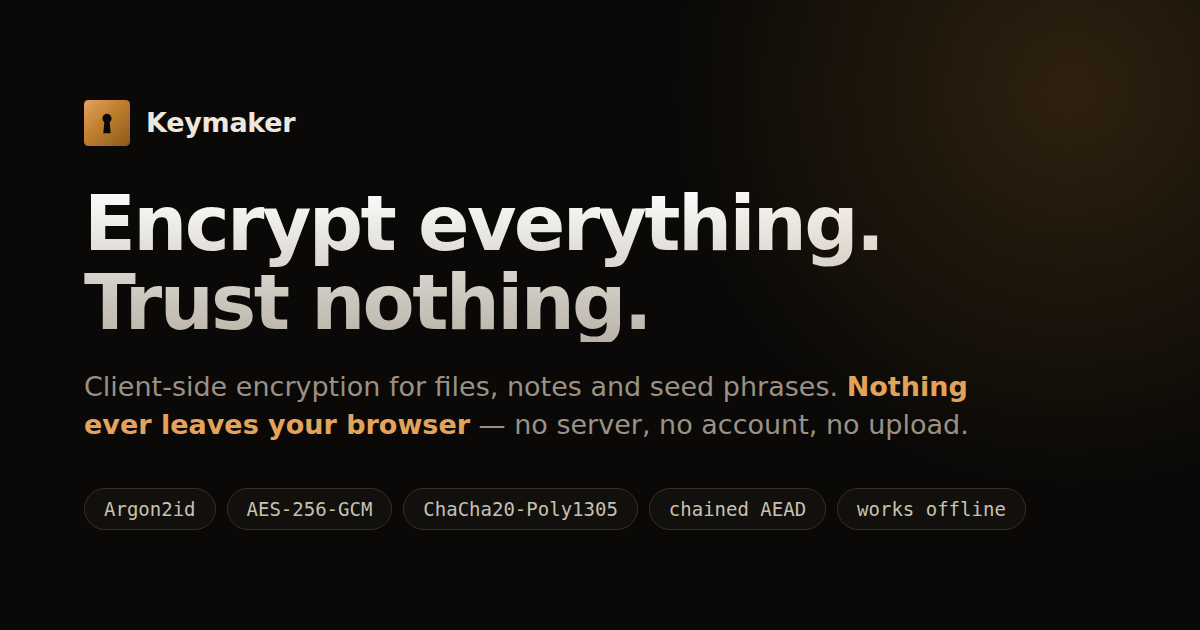
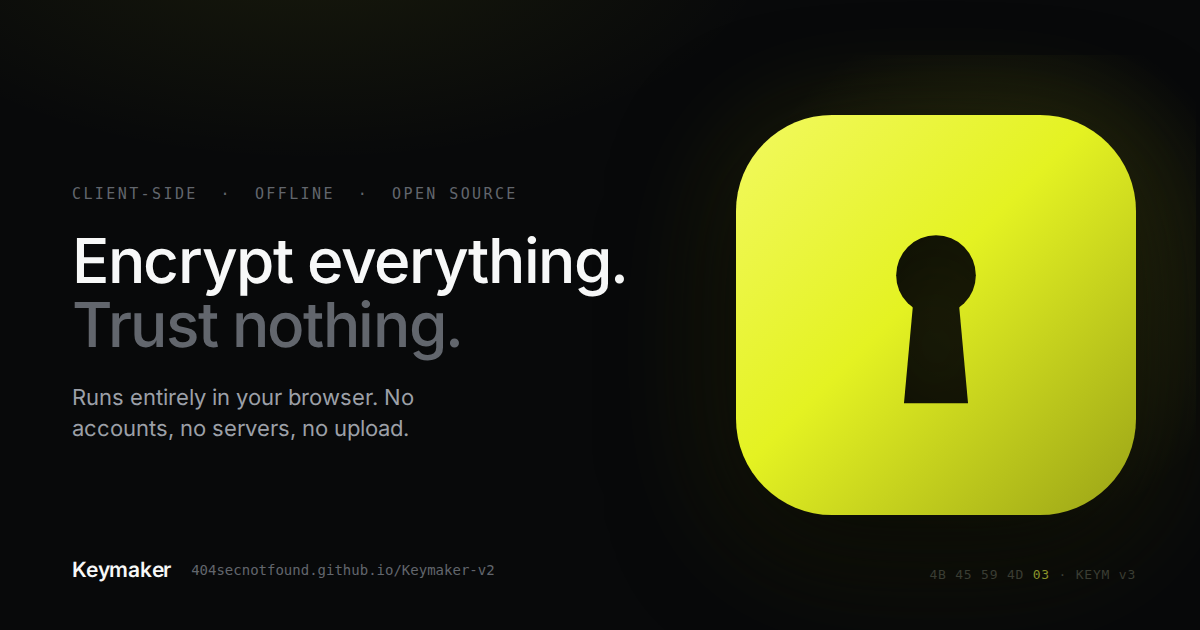
Move the visual identity to a hairline near-black system
The amber-glass look becomes a near-black instrument panel: #08090a
ground, hairline borders where blur and drop shadows used to carry the
elevation, a 12px/6px radius vocabulary, and one acid-lime accent that is
reserved for the primary action of a view. Everything routes through the
existing HSL token layer in globals.css, which is why the diff to the
shadcn primitives is two hover states: outline and ghost buttons hovered
in `bg-accent`, which was a quiet neutral wash under the old palette and
a full lime flash under this one — the accent is a signal, not a hover.

Type is Inter Variable, self-hosted through a lockfile-pinned package
rather than fetched from a font host at build time: this build has to be
reproducible by a stranger with no network guarantees, and its runtime
CSP has font-src 'self'. The two Latin faces join the service worker
precache for the same reason the chunks are in it — without them the
first offline visit renders in the fallback stack, and an app that
promises to keep working offline should not look different when it does.

The dice tool's below-the-floor verdict moves from `text-destructive` to
the red-400 idiom its sibling floor verdict already uses: the new
destructive tone is a surface colour, and on its own /10 wash it sits at
4.3:1 — under the 4.5 floor the axe suite holds that page to.

Logo, PWA icons, theme colour and the social card follow the palette.
The card is not a binary that arrived from nowhere: its source is
[…]

diff --git a/src/app/globals.css b/src/app/globals.css
@@ -1,4 +1,5 @@
 @import 'tailwindcss';
+@import '@fontsource-variable/inter/index.css';
 
 @plugin 'tailwindcss-animate';
 
@@ -6,8 +7,8 @@
 
 @theme {
   --font-body:
-    system-ui, -apple-system, BlinkMacSystemFont, Segoe UI, Roboto,
-    Helvetica Neue, Arial, sans-serif;
+    'Inter Variable', system-ui, -apple-system, BlinkMacSystemFont, Segoe UI,
+    Roboto, Helvetica Neue, Arial, sans-serif;
 
   --color-background: hsl(var(--background));
   --color-foreground: hsl(var(--foreground));
@@ -35,8 +36,8 @@
   --color-ring: hsl(var(--ring));
 
   --radius-lg: var(--radius);
-  --radius-md: calc(var(--radius) - 2px);
-  --radius-sm: calc(var(--radius) - 4px);
+  --radius-md: calc(var(--radius) - 6px);
+  --radius-sm: calc(var(--radius) - 8px);
 }
 
 /*
@@ -58,19 +59,15 @@
 }
 
 @utility glass-card {
-  background: hsla(0, 0%, 100%, 0.04);
-  backdrop-filter: blur(40px) saturate(180%);
-  -webkit-backdrop-filter: blur(40px) saturate(180%);
-  border: 1px solid hsla(0, 0%, 100%, 0.08);
-  box-shadow: 0 30px 80px -20px rgba(0, 0, 0, 0.5);
+  background: hsl(var(--muted));
+  border: 1px solid hsl(var(--border));
+  box-shadow:
+    inset 0 1px 0 rgba(255, 255, 255, 0.04),
+    0 40px 80px -40px rgba(0, 0, 0, 0.8);
 }
 
 @utility hero-gradient-text {
-  background: linear-gradient(180deg, #fff 0%, #b8b8be 100%);
-  -webkit-background-clip: text;
-  background-clip: text;
-  -webkit-text-fill-color: transparent;
-  color: transparent;
+  color: hsl(var(--foreground));
 }
 
 @layer base {
@@ -83,35 +80,35 @@
     --secondary-foreground: 0 0% 9%;
     --muted: 0 0% 96.1%;
     --muted-foreground: 0 0% 45.1%;
-    --accent: 33 61% 47%;
-    --accent-foreground: 0 0% 9%;
+    --accent: 64 65% 34%;
+    --accent-foreground: 0 0% 98%;
     --destructive: 0 84.2% 60.2%;
     --destructive-foreground: 0 0% 98%;
     --success: 142.1 76.2% 36.3%;
     --success-foreground: 0 0% 98%;
     --border: 0 0% 89.8%;
     --input: 0 0% 89.8%;
-    --ring: 0 0% 3.9%;
+    --ring: 220 9% 46%;
     --radius: 0.75rem;
   }
   .dark {
-    --background: 0 0% 0%;
-    --foreground: 240 5% 96%;
-    --primary: 0 0% 98%;
-    --primary-foreground: 0 0% 9%;
-    --secondary: 240 4% 12%;
-    --secondary-foreground: 0 0% 98%;
-    --muted: 240 4% 10%;
-    --muted-foreground: 240 5% 65%;
-    --accent: 33 61% 47%;
-    --accent-foreground: 0 0% 9%;
-    --destructive: 0 72% 51%;
+    --background: 210 11% 4%;
+    --foreground: 180 7% 97%;
+    --primary: 64 89% 54%;
+    --primary-foreground: 66 84% 4%;
+    --secondary: 210 5% 8%;
+    --secondary-foreground: 180 7% 97%;
+    --muted: 210 6% 6%;
+    --muted-foreground: 220 6% 64%;
+    --accent: 64 89% 54%;
+    --accent-foreground: 66 84% 4%;
+    --destructive: 358 75% 59%;
     --destructive-foreground: 0 0% 98%;
-    --success: 156 72% 52%;
-    --success-foreground: 0 0% 9%;
-    --border: 240 6% 14%;
-    --input: 240 6% 14%;
-    --ring: 33 61% 47%;
+    --success: 150 43% 51%;
+    --success-foreground: 210 11% 4%;
+    --border: 223 9% 15%;
+    --input: 223 9% 15%;
+    --ring: 220 9% 70%;
   }
 }
 
@@ -127,15 +124,15 @@
   body {
     @apply bg-background text-foreground;
     letter-spacing: -0.011em;
+    font-feature-settings: 'cv01' on, 'ss03' on, 'zero' on;
     background-color: hsl(var(--background));
     background-image:
-      radial-gradient(ellipse 80% 60% at 50% -10%, rgba(245, 158, 11, 0.12), transparent 60%),
-      radial-gradient(ellipse 60% 50% at 100% 100%, rgba(239, 68, 68, 0.06), transparent 60%);
+      radial-gradient(ellipse 55% 45% at 50% -8%, rgba(228, 242, 34, 0.05), transparent 65%);
     background-attachment: fixed;
     min-height: 100vh;
   }
   h1, h2, h3, h4 {
-    letter-spacing: -0.025em;
+    letter-spacing: -0.022em;
   }
 }
 

diff --git a/scripts/og-card-template.html b/scripts/og-card-template.html
@@ -1,0 +1,63 @@
+<!doctype html><meta charset="utf-8"><style>
+@font-face{font-family:'Inter Variable';
+  src:url('../node_modules/@fontsource-variable/inter/files/inter-latin-wght-normal.woff2') format('woff2-variations');
+  font-weight:100 900;}
+*{margin:0;box-sizing:border-box}
+body{width:1200px;height:630px;background:#08090a;font-family:'Inter Variable',sans-serif;
+  font-feature-settings:'cv01' on,'ss03' on,'zero' on;overflow:hidden;position:relative;color:#f7f8f8;
+  background-image:radial-gradient(ellipse 60% 55% at 26% -10%, rgba(228,242,34,0.07), transparent 65%);}
+.copy{position:absolute;left:72px;top:0;bottom:0;width:700px;display:flex;flex-direction:column;justify-content:center;}
+.eb{font-family:ui-monospace,'SF Mono',monospace;font-size:15px;letter-spacing:.16em;color:#62666d;
+  text-transform:uppercase;margin-bottom:26px;}
+h1{font-size:62px;line-height:1.04;font-weight:510;letter-spacing:-0.022em;}
+h1 span{color:#62666d;}
+.sub{margin-top:24px;font-size:22px;line-height:1.45;color:#9ca0a8;max-width:32ch;font-weight:400;}
+.foot{position:absolute;left:72px;bottom:48px;display:flex;align-items:center;gap:14px;}
+.brand{font-size:21px;font-weight:590;letter-spacing:-0.011em;}
+.url{font-family:ui-monospace,'SF Mono',monospace;font-size:14px;color:#62666d;margin-left:6px;}
+.art{position:absolute;right:64px;top:50%;transform:translateY(-50%);width:400px;height:400px;}
+.bloom{position:absolute;inset:-60px;background:radial-gradient(circle at 62% 42%, rgba(228,242,34,0.16), transparent 60%);}
+.mark{position:absolute;inset:0;filter:drop-shadow(0 30px 60px rgba(0,0,0,0.8)) drop-shadow(0 0 46px rgba(228,242,34,0.12));}
+.hexline{position:absolute;right:64px;bottom:48px;font-family:ui-monospace,monospace;font-size:13px;
+  letter-spacing:.06em;color:#3a3d33;}
+.hexline b{color:#8b942a;font-weight:500;}
+</style><body>
+<div class="copy">
+  <div class="eb">Client-side &nbsp;·&nbsp; Offline &nbsp;·&nbsp; Open source</div>
+  <h1>Encrypt everything.<br><span>Trust nothing.</span></h1>
+  <div class="sub">Runs entirely in your browser. No accounts, no servers, no upload.</div>
+</div>
+<div class="art">
+  <div class="bloom"></div>
+  <svg class="mark" viewBox="0 0 512 512" xmlns="http://www.w3.org/2000/svg">
+    <defs>
+      <linearGradient id="g" x1="0" y1="0" x2="1" y2="1">
+        <stop offset="0%" stop-color="#f2f960"/>
+        <stop offset="45%" stop-color="#e4f222"/>
+        <stop offset="100%" stop-color="#9aa317"/>
+      </linearGradient>
+      <mask id="k">
+        <rect width="512" height="512" fill="white"/>
+        <circle cx="256" cy="205" r="51" fill="black"/>
+        <path d="M 230 205 L 282 205 L 297 369 L 215 369 Z" fill="black"/>
+      </mask>
+    </defs>
+    <rect width="512" height="512" rx="123" fill="url(#g)" mask="url(#k)"/>
+  </svg>
+</div>
+<div class="foot"><div class="brand">Keymaker</div>
+  <div class="url">404secnotfound.github.io/Keymaker-v2</div></div>
+<div class="hexline">4B 45 59 4D <b>03</b> · KEYM v3</div>
+</body>
+<!--
+  The social card, as source. public/og-card.png is a 1200x630 screenshot of
+  this file:
+
+      npx playwright screenshot --viewport-size=1200,630 \
+        "file://$PWD/scripts/og-card-template.html" public/og-card.png
+
+  It lives in the repository so the card is regenerable the same way every
+  other artifact here is: from source, with the same Inter files the app
+  ships. The hex line is the real v3 header opening — 4B 45 59 4D 03 — the
+  same bytes the container inspector annotates in the app.
+-->

diff --git a/src/app/layout.tsx b/src/app/layout.tsx
@@ -110,7 +110,7 @@ export default function RootLayout({
         <link rel="icon" type="image/x-icon" href={`${BASE}/favicon.ico`} />
         <link rel="manifest" href={`${BASE}/manifest.json`} />
         <link rel="apple-touch-icon" sizes="1024x1024" href={`${BASE}/apple-touch-icon.png`} />
-        <meta name="theme-color" content="#c07f2e" />
+        <meta name="theme-color" content="#08090a" />
         <meta name="mobile-web-app-capable" content="yes" />
         <meta name="apple-mobile-web-app-capable" content="yes" />
         <meta name="apple-mobile-web-app-status-bar-style" content="black-translucent" />
@@ -135,7 +135,7 @@ export default function RootLayout({
                   banner.id = 'sw-update-banner';
                   banner.type = 'button';
                   banner.setAttribute('role', 'alert');
-                  banner.style.cssText = 'position:fixed;bottom:1rem;left:50%;transform:translateX(-50%);z-index:9999;background:#c07f2e;color:#000;padding:0.75rem 1.25rem;border:0;border-radius:0.5rem;font:inherit;font-size:0.875rem;font-weight:600;cursor:pointer;box-shadow:0 4px 12px rgba(0,0,0,0.3);';
+                  banner.style.cssText = 'position:fixed;bottom:1rem;left:50%;transform:translateX(-50%);z-index:9999;background:#e4f222;color:#0d0e02;padding:0.75rem 1.25rem;border:0;border-radius:0.5rem;font:inherit;font-size:0.875rem;font-weight:600;cursor:pointer;box-shadow:0 4px 12px rgba(0,0,0,0.3);';
                   banner.textContent = 'A new version of Keymaker is ready — tap to reload';
                   banner.onclick = function() {
                     // Nothing swaps until this click. Promoting the waiting

diff --git a/src/components/ui/button.tsx b/src/components/ui/button.tsx
@@ -13,10 +13,10 @@ const buttonVariants = cva(
         destructive:
           "bg-destructive text-destructive-foreground hover:bg-destructive/90",
         outline:
-          "border border-input bg-background hover:bg-accent hover:text-accent-foreground",
+          "border border-input bg-background hover:bg-secondary hover:text-foreground",
         secondary:
           "bg-secondary text-secondary-foreground hover:bg-secondary/80",
-        ghost: "hover:bg-accent hover:text-accent-foreground",
+        ghost: "hover:bg-secondary hover:text-foreground",
         link: "text-primary underline-offset-4 hover:underline",
       },
       size: {

diff --git a/src/components/dice-entropy-tool.tsx b/src/components/dice-entropy-tool.tsx
@@ -166,7 +166,7 @@ export function DiceEntropyTool() {
   const verdictUI = {
     below: {
       icon: ShieldAlert,
-      classes: "border-destructive/40 bg-destructive/10 text-destructive",
+      classes: "border-destructive/40 bg-destructive/10 text-red-400",
       title: "Below the 128-bit floor",
       body: `Keep rolling — ${remaining} more ${calc.validSides}-sided ${rollWord} to reach your ${targetBits}-bit target.`,
     },
